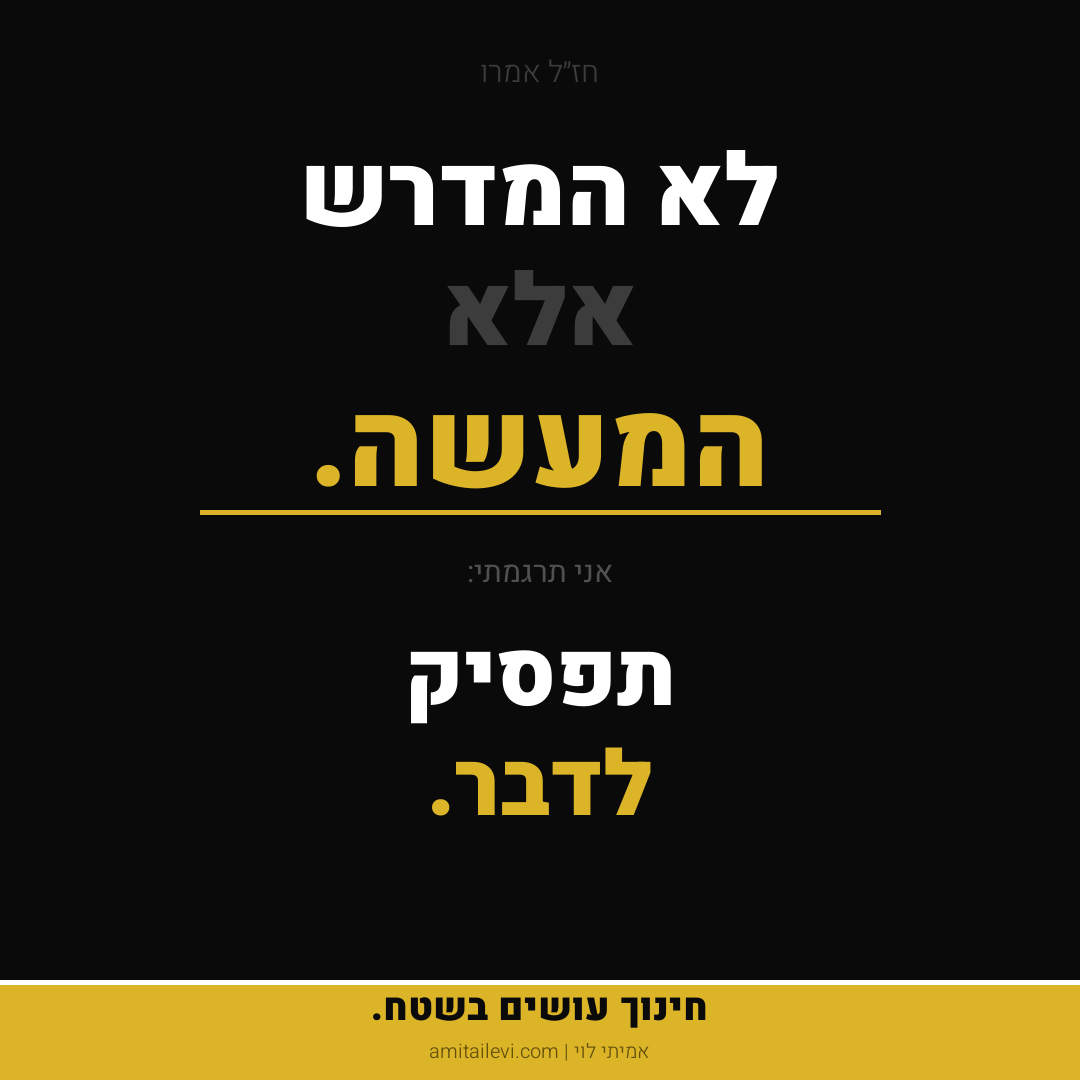
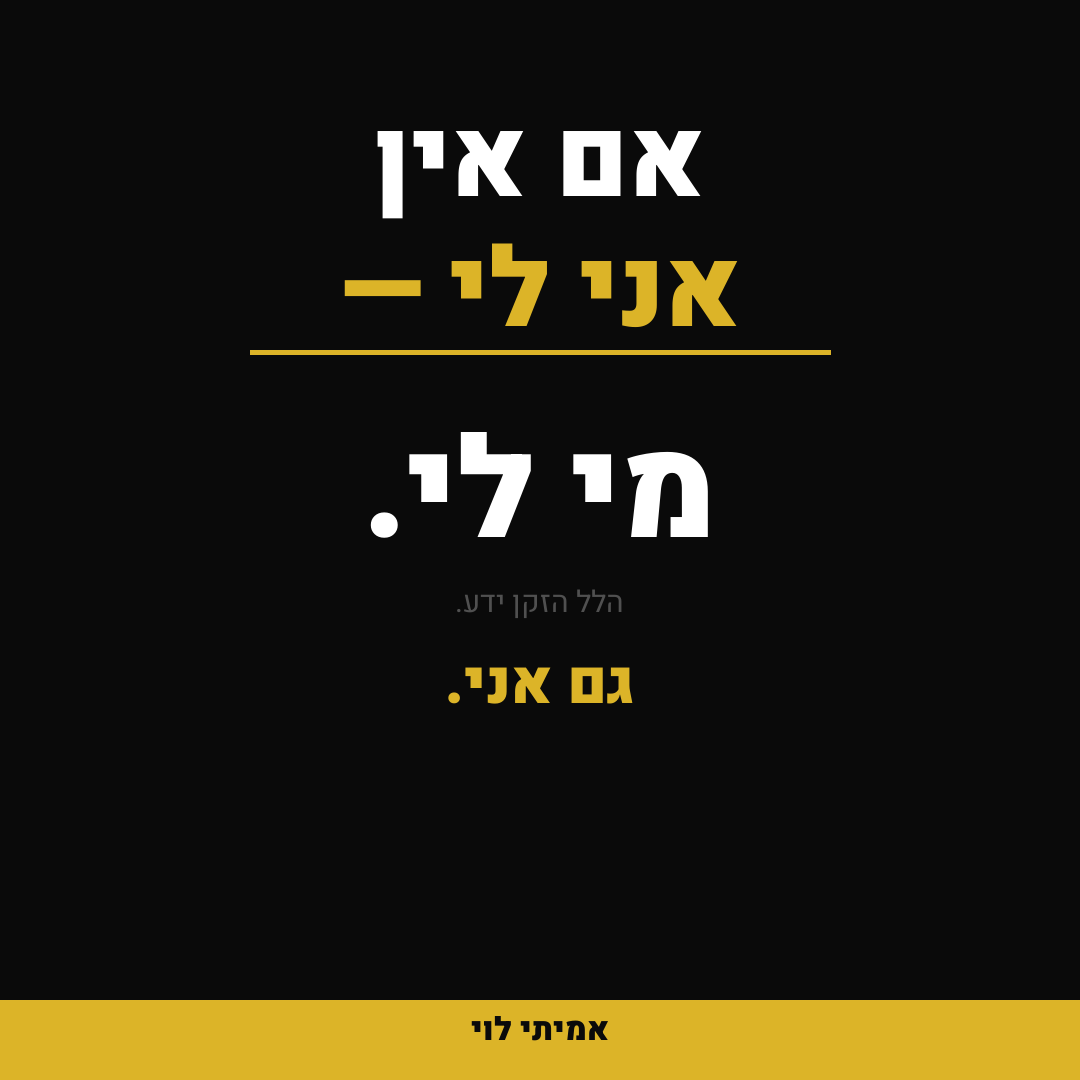
V5d: president energy — no kindergartens, pure leadership

diff --git a/content/week1/generate_v5.py b/content/week1/generate_v5.py
@@ -1,8 +1,8 @@
 #!/usr/bin/env python3
-"""V5c: TRUMP ENERGY. Raw. Aggressive. Slogan. ALL CAPS feel. Meme-grade."""
+"""V5d: PRESIDENT. No kindergartens. Big vision. Winner. Leader."""
 from PIL import Image, ImageDraw, ImageFont
 from bidi.algorithm import get_display as bidi
-import os, math
+import os
 
 W, H = 1080, 1080
 OUT = os.path.dirname(os.path.abspath(__file__))
@@ -10,82 +10,62 @@ FONTS = "/tmp/heebo-fonts"
 f = lambda w, s: ImageFont.truetype(f"{FONTS}/heebo-{w}.ttf", s)
 
 WHITE = (255,255,255); BLACK = (10,10,10); GOLD = (220,180,40)
-DARKGOLD = (180,145,25); OFFWHITE = (250,248,242)
 
 def tc(d, text, y, fnt, fill, w=W):
     bb = d.textbbox((0,0), text, font=fnt)
     d.text(((w-bb[2]+bb[0])//2, y), text, font=fnt, fill=fill)
 
-def slogan_bar(d, y=H-100):
-    """Repeating slogan — like MAGA. Every post."""
-    d.rectangle([0, y, W, H], fill=BLACK)
-    d.rectangle([0, y, W, y+4], fill=GOLD)
-    d.text((W//2, y+28), bidi("חינוך עושים בשטח."), font=f(900,38), fill=GOLD, anchor="mm")
-    d.text((W//2, y+72), bidi("אמיתי לוי | amitailevi.com"), font=f(300,20), fill=(120,120,120), anchor="mm")
+def brand(d):
+    d.rectangle([0, H-80, W, H], fill=BLACK)
+    d.rectangle([0, H-80, W, H-76], fill=GOLD)
+    d.text((W//2, H-50), bidi("אמיתי לוי"), font=f(900,32), fill=GOLD, anchor="mm")
 
 # ══════════════════════════════════════
-# 01: The provocation — "כולם מדברים"
+# 01: "אמרו שזה בלתי אפשרי"
 # ══════════════════════════════════════
 def p01():
     img = Image.new("RGB", (W,H), WHITE)
     d = ImageDraw.Draw(img)
-    # No decoration. Just words hitting you.
-    tc(d, bidi("כולם"), 60, f(900,140), (200,200,200))
-    tc(d, bidi("מדברים."), 210, f(900,140), (200,200,200))
-    # The counter
-    tc(d, bidi("אני"), 430, f(900,140), BLACK)
-    tc(d, bidi("נכנס"), 580, f(900,140), GOLD)
-    tc(d, bidi("לגן."), 730, f(900,140), BLACK)
-    slogan_bar(d)
+    tc(d, bidi("אמרו"), 80, f(900,130), (190,190,190))
+    tc(d, bidi("שזה בלתי"), 220, f(900,130), (190,190,190))
+    tc(d, bidi("אפשרי."), 370, f(900,130), (190,190,190))
+    d.rectangle([200, 530, 880, 536], fill=GOLD)
+    tc(d, bidi("עשיתי."), 570, f(900,160), BLACK)
+    brand(d)
     return img
 
 # ══════════════════════════════════════
-# 02: The number — raw power
+# 02: "4 ערים. מנדט."
 # ══════════════════════════════════════
 def p02():
     img = Image.new("RGB", (W,H), WHITE)
     d = ImageDraw.Draw(img)
-    # Number SO big it barely fits
-    d.text((W//2, 20), "612", font=f(900,400), fill=BLACK, anchor="mt")
-    # One line under
-    d.rectangle([150, 440, 930, 446], fill=GOLD)
-    tc(d, bidi("ילדים."), 470, f(900,80), BLACK)
-    tc(d, bidi("קייטנה אחת."), 570, f(900,60), GOLD)
-    tc(d, bidi("שואלים למה? תשאלו את ההורים."), 680, f(400,30), (150,150,150))
-    slogan_bar(d)
+    d.text((W//2, 50), "4", font=f(900,400), fill=BLACK, anchor="mt")
+    d.rectangle([200, 460, 880, 466], fill=GOLD)
+    tc(d, bidi("ערים בחרו בי."), 490, f(900,80), BLACK)
+    tc(d, bidi("לא ביקשתי. לא התחנפתי."), 610, f(400,30), (150,150,150))
+    tc(d, bidi("הם ראו תוצאות."), 660, f(700,36), GOLD)
+    brand(d)
     return img
 
 # ══════════════════════════════════════
-# 03: Chazal — raw and sharp
+# 03: Chazal — presidential
 # ══════════════════════════════════════
 def p03():
     img = Image.new("RGB", (W,H), BLACK)
     d = ImageDraw.Draw(img)
-    # White on black — dramatic
-    tc(d, bidi("חז״ל אמרו"), 50, f(300,30), (60,60,60))
-    tc(d, bidi("לא המדרש"), 120, f(900,100), WHITE)
-    tc(d, bidi("אלא"), 240, f(900,100), (60,60,60))
-    tc(d, bidi("המעשה."), 360, f(900,120), GOLD)
-    # Sharp divider
-    d.rectangle([200, 510, 880, 514], fill=GOLD)
-    # The translation
-    tc(d, bidi("אני תרגמתי:"), 550, f(400,30), (80,80,80))
-    tc(d, bidi("תפסיק"), 610, f(900,90), WHITE)
-    tc(d, bidi("לדבר."), 720, f(900,90), GOLD)
-    # Slogan bar
-    d.rectangle([0, H-100, W, H], fill=GOLD)
-    d.rectangle([0, H-100, W, H-96], fill=WHITE)
-    d.text((W//2, H-72), bidi("חינוך עושים בשטח."), font=f(900,38), fill=BLACK, anchor="mm")
-    d.text((W//2, H-28), bidi("אמיתי לוי | amitailevi.com"), font=f(300,20), fill=(100,80,10), anchor="mm")
+    tc(d, bidi("אם אין"), 80, f(900,110), WHITE)
+    tc(d, bidi("אני לי —"), 210, f(900,110), GOLD)
+    d.rectangle([250, 350, 830, 354], fill=GOLD)
+    tc(d, bidi("מי לי."), 390, f(900,140), WHITE)
+    tc(d, bidi("הלל הזקן ידע."), 580, f(400,30), (80,80,80))
+    tc(d, bidi("גם אני."), 640, f(900,60), GOLD)
+    d.rectangle([0, H-80, W, H], fill=GOLD)
+    d.text((W//2, H-50), bidi("אמיתי לוי"), font=f(900,32), fill=BLACK, anchor="mm")
     return img
 
-for name, func in [
-    ("test-01.png", p01),
-    ("test-02.png", p02),
-    ("test-03.png", p03),
-]:
+for name, func in [("test-01.png",p01),("test-02.png",p02),("test-03.png",p03)]:
     img = func()
-    path = f"{OUT}/{name}"
-    img.save(path, "PNG", optimize=True)
-    print(f"  {name} ({os.path.getsize(path)//1024}KB)")
-print("\nV5c — Trump energy.")
+    img.save(f"{OUT}/{name}", "PNG", optimize=True)
+    print(f"  {name}")
+print("V5d ready.")